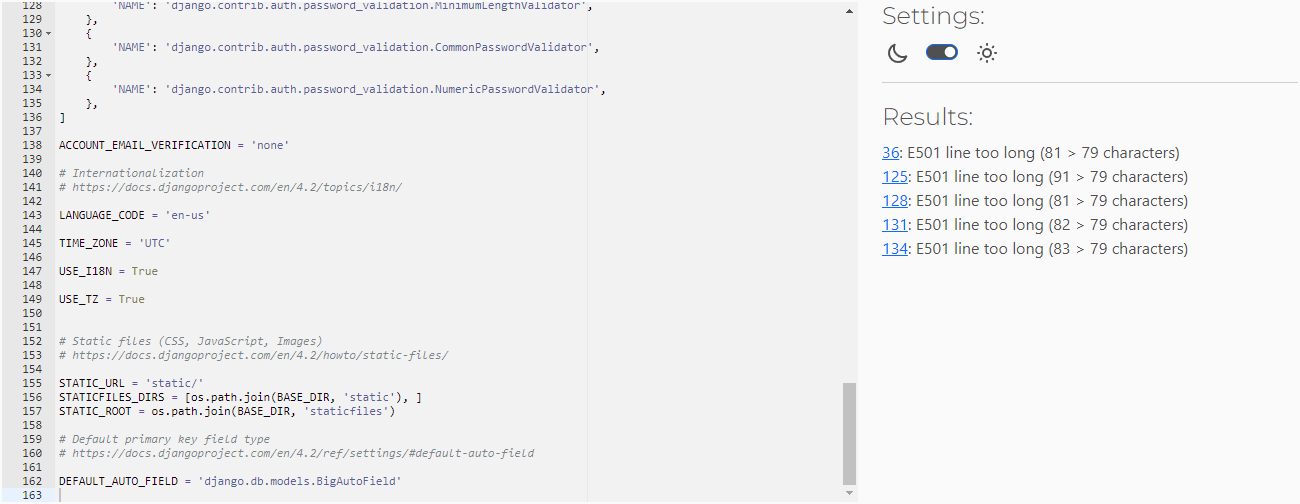
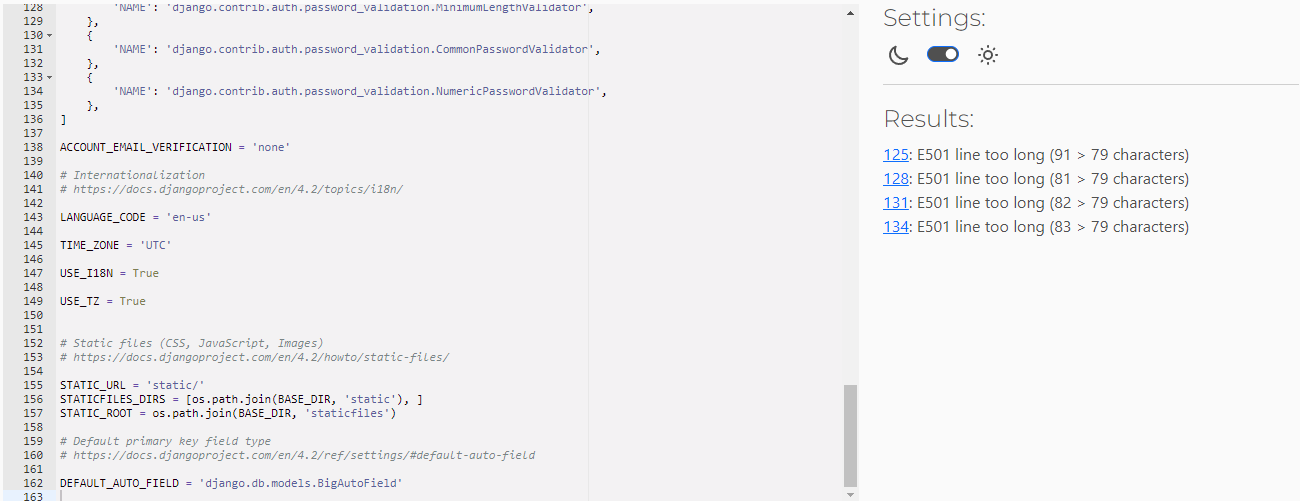
Updated readme to inclue JSHint validator checks

diff --git a/happy_hound_hotels/settings.py b/happy_hound_hotels/settings.py
@@ -33,7 +33,7 @@ TEMPLATES_DIR = os.path.join(BASE_DIR, 'templates')
 # See https://docs.djangoproject.com/en/4.2/howto/deployment/checklist/
 
 # SECURITY WARNING: keep the secret key used in production secret!
-SECRET_KEY = 'django-insecure-_q#fwj*yyc)3ltr1@1x^u9ky)tczq!(u&*_*@!6aq)yvvl9d1!'
+SECRET_KEY = os.environ.get('SECRET_KEY')
 
 # SECURITY WARNING: don't run with debug turned on in production!
 DEBUG = False

diff --git a/README.md b/README.md
@@ -343,7 +343,7 @@ The table below summarises the testing of user stories, comparing the expected o
 
 ### Python
 
-Below screenshots show validator checks for each file that includes python code within this project.
+Below screenshots show validator checks for each file that includes python code within this project. All code has been passed through [CI Python Linter](https://pep8ci.herokuapp.com/) with no errors found.
 
 ### happy_hound_hotels/...
 
@@ -352,7 +352,7 @@ Below screenshots show validator checks for each file that includes python code 
 
 #### settings.py
 ![settings.py validator check](readme/images/validator-checks/python/happy-hound-hotels/python-validator-settings.png)
-**NOTE:** 5 validator errors appear due to AllAuth and SECRET_KEY variables being very long.
+**NOTE:** 4 validator errors appear due to AllAuth password validator variables being very long.
 
 #### urls.py
 ![urls.py validator check](readme/images/validator-checks/python/happy-hound-hotels/python-validator-urls.png)
@@ -379,6 +379,17 @@ Below screenshots show validator checks for each file that includes python code 
 
 #### views.py
 ![views.py validator check](readme/images/validator-checks/python/kennel-manager/python-validator-views.png)
+
+### JavaScript
+
+Below screenshots show validator checks for each file that includes JavaScript code within this project. All code has been passed through [JSHint](https://jshint.com/) with no errors found.
+
+#### reviews.js
+![reviews.js validator check](readme/images/validator-checks/js/jshint-reviews.png)
+**NOTE:** All warnings shown relate to complaints about ES6 syntax.
+
+#### script.js
+![script.js validator check](readme/images/validator-checks/js/jshint-script.png)
 
 
 ## Lighthouse
